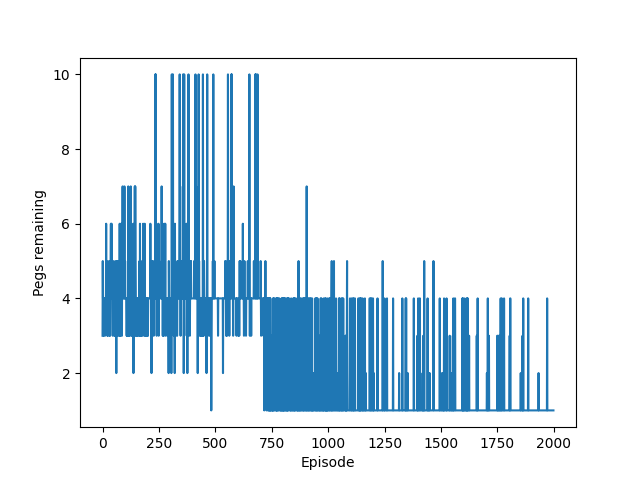
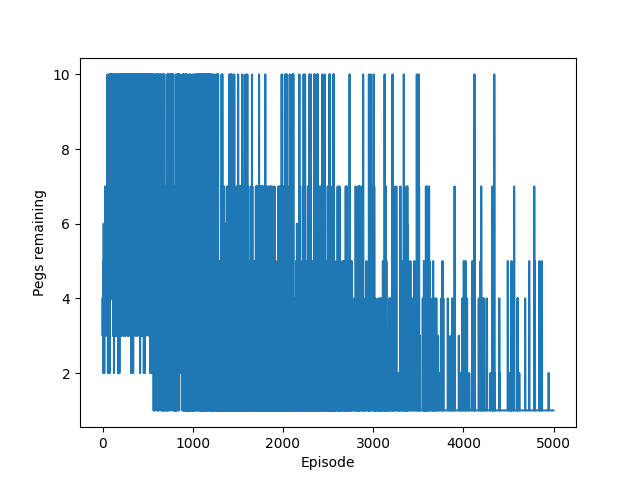
changed filenames to have capital letters

diff --git a/project_1/SplitGD.py b/project_1/SplitGD.py
@@ -97,19 +97,26 @@ class ReinforcementGD(SplitGD):
     #ei←ei+∂V(st)/∂wi
     #wi←wi+αδe
     loss = loss_td.numpy()[0]
-    if loss < 0.000000000000001: # We check this to avoid divide by 0 errors
-      loss = np.ones(shape=(1,), dtype="float32")[0] # If loss is very, very small, gradient will also be very, very small, so we just map loss * and / operations to identity function as the very small gradient
+
+    # We check this to avoid divide by 0 errors
+    if loss < 0.000000000000001: 
+      # If loss is very, very small, gradient will also be very, very small, so we just map loss * and / operations to identity function as the very small gradient
       # will not be able to impact eligibility gradient tracking
-    gradients = gradients/loss  # Because we calculate the gradient already with td-error we do this for storing eliglibility gradients to get the formulas right
+      loss = np.ones(shape=(1,), dtype="float32")[0] 
+    
+    # Because we calculate the gradient already with td-error we do this for storing eliglibility gradients to get the formulas right
     # (TD error at t=1 shouldn't impact the eligibility in t=2)
+    gradients = gradients/loss  
+    
     if self.eligibility_gradients is None:
       self.eligibility_gradients = gradients
     else:
       # as in slides
       self.eligibility_gradients = self.eligibility_gradients*self.discount_factor*self.eligibility_decay_rate + gradients
 
-    return self.eligibility_gradients * loss  # So we need to get TD error from somewhere
-    #wi←wi+αδe
+    # So we need to get TD error from somewhere
+    # wi←wi+αδe
+    return self.eligibility_gradients * loss  
 
   def fit(self, features, targets, epochs=1, mbs=1,vfrac=0.1,verbosity=1,callbacks=[]):
     params = self.model.trainable_weights

diff --git a/project_1/ReinforcementLearner.py b/project_1/ReinforcementLearner.py
@@ -2,10 +2,12 @@ from PegSolitairePlayer import PegSolitairePlayer
 import ConfigReader
 from Actor import Actor
 from Critic import TableCritic, NNCritic, CriticType
-from simWorld import ShapeType
+from SimWorld import ShapeType
 from matplotlib import pyplot as plt
 import matplotlib
 from tqdm import tqdm
+
+from tensorflow.keras.callbacks import TensorBoard
 
 class ReinforcementLearner():
   def __init__(self, sim_world_player, config: ConfigReader):
@@ -38,12 +40,12 @@ class ReinforcementLearner():
 
       # Only decay epsilon if we find a correct solution
       # Triangle needs this if-sentence
-      if self.peg_log[-1] == 1:
-        self.actor.epsilon_decay()
+      # if self.peg_log[-1] == 1:
+      #   self.actor.epsilon_decay()
 
       # Logaritmic
       # if self.peg_log[-1] == 1:
-      #   self.actor.epsilon = self.config.initial_epsilon * 10**(-(2*episode)/self.config.number_of_episodes)
+      # self.actor.epsilon = self.config.initial_epsilon * 10**(-(2*episode)/self.config.number_of_episodes)
 
       # Linear
       # self.actor.epsilon = 1 - (episode/self.config.number_of_episodes)

diff --git a/project_1/PegSolitairePlayer.py b/project_1/PegSolitairePlayer.py
@@ -1,8 +1,8 @@
 from ConfigReader import ConfigReader
-from pegSolitaireBoard import PegSolitaireBoard
-from simWorld import SimWorldPlayer
+from PegSolitaireBoard import PegSolitaireBoard
+from SimWorld import SimWorldPlayer
 import Pieces
-from simWorld import ShapeType
+from SimWorld import ShapeType
 from SimWorldDisplayer import ImageDisplay
 
 class PegSolitairePlayer(SimWorldPlayer):
@@ -72,10 +72,10 @@ class PegSolitairePlayer(SimWorldPlayer):
   
   def get_reward(self):
     if self.game.get_game_over() and self.game.get_win():
-      return 1
+      return 100000
     #remaining_peg_heuristic = (float(self.board_size)*float(self.board_size)-float(self.get_remaining_pegs()))/(float(self.board_size)*float(self.board_size))
     #available_moves_heuristic = len(self.game.get_all_moves())/self.get_remaining_pegs()
-    return 0
+    return -self.get_remaining_pegs()
     # #if self.game.get_game_over() and self.game.get_win():
     # #  return 1 
     #return 0

diff --git a/project_1/Critic.py b/project_1/Critic.py
@@ -116,11 +116,9 @@ class NNCritic(Critic):
     loss = keras.losses.MSE
     model = keras.models.Sequential()
 
-    for dim in self.nn_dimentions[:-1]:
+    for dim in self.nn_dimentions:
       model.add(keras.layers.Dense(dim, activation='relu'))
     
-    model.add(keras.layers.Dense(self.nn_dimentions[-1], activation='relu'))
-
     model.compile(optimizer=opt(lr=self.learning_rate), loss=loss, metrics=[keras.metrics.MSE])
     model.build(input_shape = self.input_size)
     return model

diff --git a/project_1/main.py b/project_1/main.py
@@ -1,7 +1,7 @@
 from ConfigReader import ConfigReader
 from SimWorldDisplayer import ImageDisplay
-from pegSolitaireBoard import PegSolitaireBoard
-from simWorld import ShapeType
+from PegSolitaireBoard import PegSolitaireBoard
+from SimWorld import ShapeType
 from ReinforcementLearner import ReinforcementLearner
 from PegSolitairePlayer import PegSolitairePlayer
 

diff --git a/project_1/pegSolitaireBoard.py b/project_1/pegSolitaireBoard.py
@@ -1,5 +1,5 @@
-from simWorld import HexBoard
-from simWorld import ShapeType
+from SimWorld import HexBoard
+from SimWorld import ShapeType
 from Pieces import Peg, PegState
 from SimWorldDisplayer import Line, Circle, Layer
 from IllegalArgumentException import * 

diff --git a/project_1/ConfigReader.py b/project_1/ConfigReader.py
@@ -1,5 +1,5 @@
 import os
-from simWorld import ShapeType
+from SimWorld import ShapeType
 from Critic import CriticType
 
 CURRENT_DIR = os.path.dirname(os.path.abspath(__file__))
